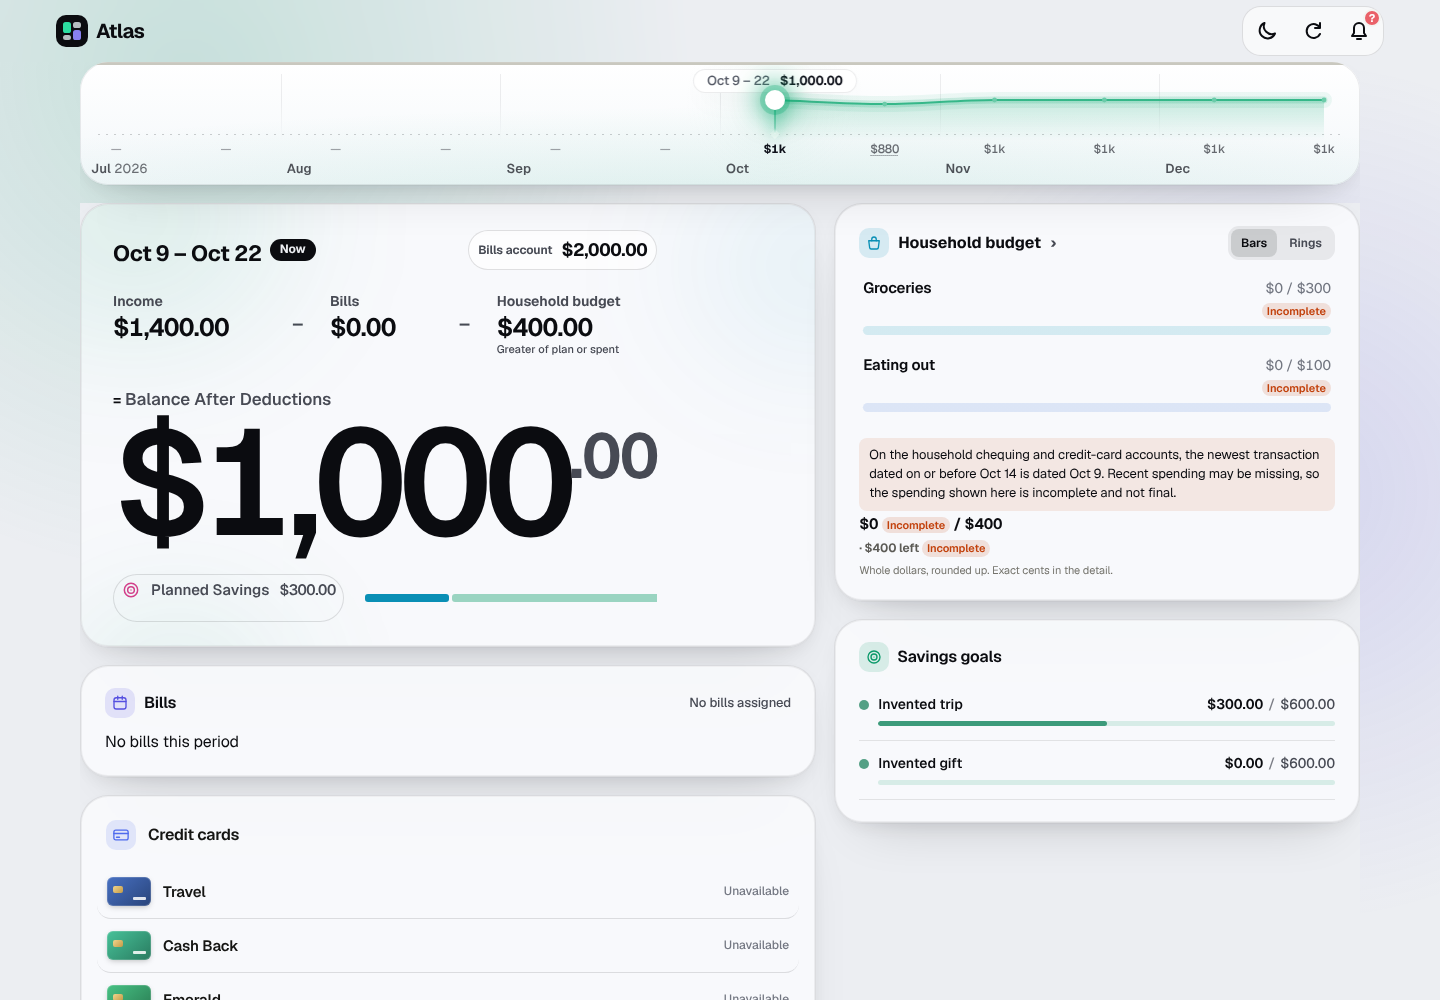
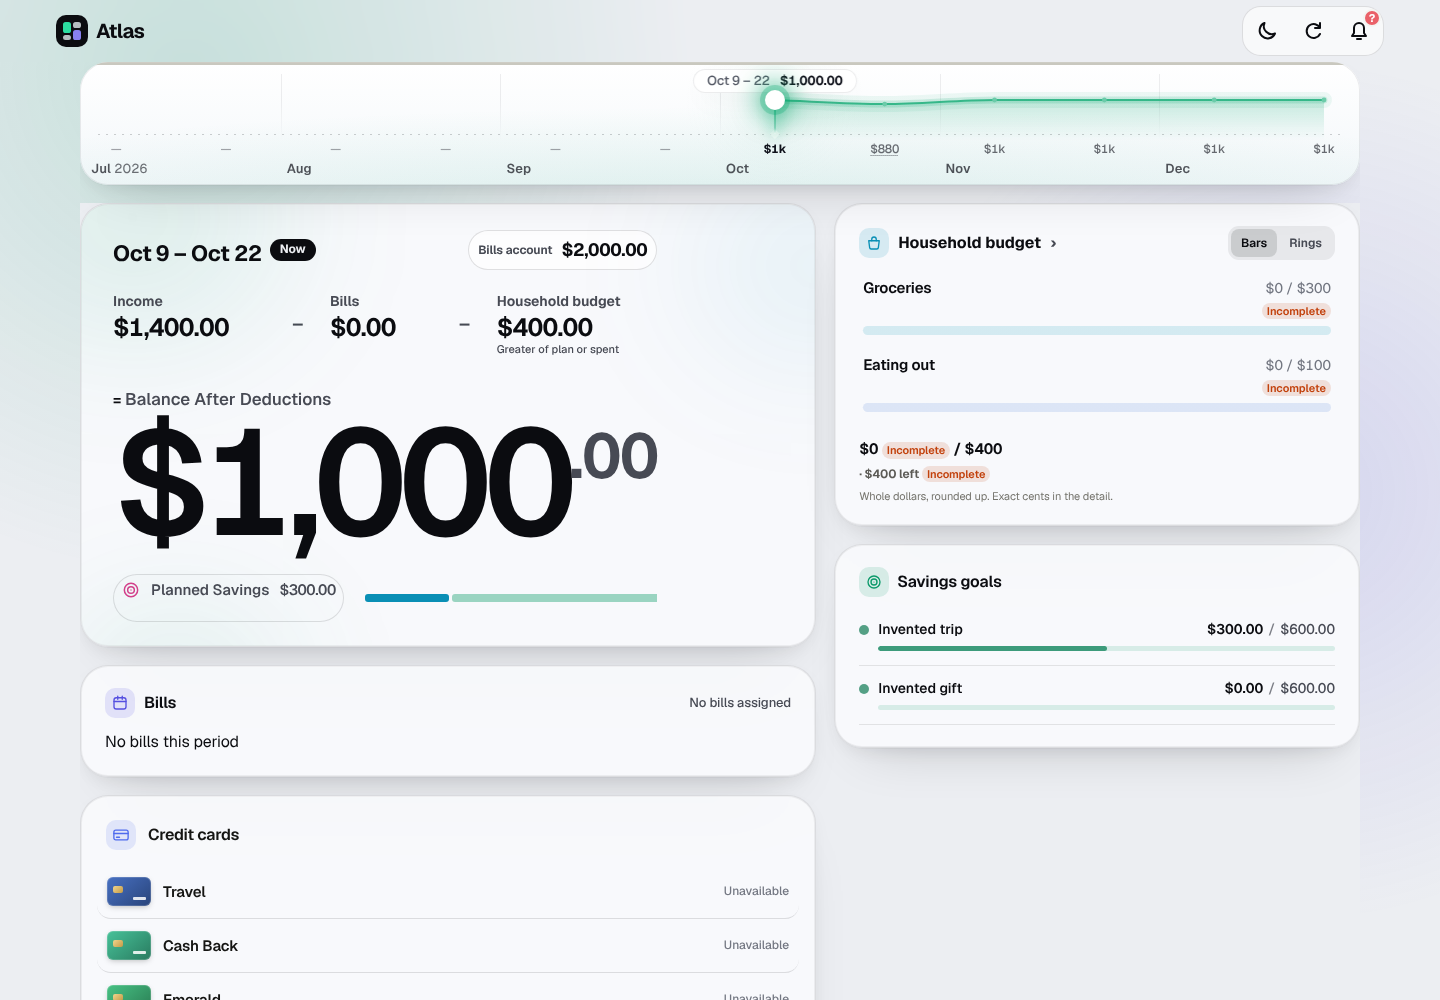
Household budget card: remove the pink stale-feed paragraph; the Incomplete chips stay
Owner decision (Dale, 2026-11-11, via the lead). The chips print wherever the
paragraph did; a test now asserts that for every stale case.

Claude-Session: https://claude.ai/code/session_01B4JZd2UMcbA8qNtEzYVTF9

Changed region(s): [[0.5938, 0.434, 0.9375, 0.775], [0.625, 0.806, 0.9062, 0.837]]

diff --git a/test/test-bank-feed-freshness.js b/test/test-bank-feed-freshness.js
@@ -62,54 +62,18 @@ test('no packet, or a packet without an observation date, makes no claim', () =>
   assert.equal(F.bankFeedFreshness({ observationAsOf: '2026-11-08' }).status, 'unknown');
 });
 
-// The page notice says only what the dates show (Atlas review 6725463013):
-// a transaction date is not an import or arrival time, and an empty window
-// is not a known arrival before it. The real renderer function is run with
-// a fixed date formatter; expected text is written by hand.
 const fs = require('node:fs');
 const path = require('node:path');
-const vm = require('node:vm');
 const planSrc = fs.readFileSync(path.join(__dirname, '..', 'public', 'plan.js'), 'utf8');
-const noticeFn = /^function budgetBankFeedNoticeHtml\([\s\S]*?\n\}$/m.exec(planSrc);
-const notice = feed => vm.runInNewContext(`${noticeFn[0]}\nbudgetBankFeedNoticeHtml(feed);`, {
-  feed, fmtDate: d => 'D<' + d + '>', budgetBrowseEscape: v => String(v).replace(/</g, '&lt;').replace(/>/g, '&gt;'),
-});
-const textOf = html => html.replace(/<[^>]+>/g, '').replace(/&lt;/g, '<').replace(/&gt;/g, '>');
 
-const TAIL = ' Recent spending may be missing, so the spending shown here is incomplete and not final.';
-const SCOPE = 'On the household chequing and credit-card accounts';
-
-test('the notice names the newest spending-account transaction date, never an arrival date', () => {
-  // A row dated 2026-11-06 may have been imported today; the notice must not say when it arrived.
-  const html = notice({ status: 'stale', asOf: '2026-11-08', newestTransactionDate: '2026-11-06', windowStart: '2026-10-25' });
-  assert.equal(textOf(html), SCOPE + ', the newest transaction dated on or before D<2026-11-08> is dated D<2026-11-06>.' + TAIL);
-  assert.match(html, /<time datetime="2026-11-06">/);
-  assert.doesNotMatch(html, /arriv|import/i);
-});
-
-test('newer savings or HELOC rows do not contradict the notice: it is scoped to what the verdict read', () => {
-  // The same packet as the savings/HELOC case above: those rows are 2026-11-08, the verdict 2026-11-03.
-  const v = F.bankFeedFreshness(packet('2026-11-08', [tx('2026-11-03', 'household-cash'),
-    tx('2026-11-08', 'household-reserve'), tx('2026-11-08', 'heloc')]));
-  const text = textOf(notice(v));
-  assert.equal(text, SCOPE + ', the newest transaction dated on or before D<2026-11-08> is dated D<2026-11-03>.' + TAIL);
-  assert.doesNotMatch(text, /newest bank transaction Atlas has|Atlas has no bank transactions/i);
-});
-
-test('an empty window states only that no spending-account transaction is dated in it', () => {
-  const html = notice({ status: 'stale', asOf: '2026-11-08', newestTransactionDate: null, windowStart: '2026-10-25' });
-  assert.equal(textOf(html), SCOPE + ', Atlas has no transactions dated from D<2026-10-25> to D<2026-11-08>.' + TAIL);
-  assert.doesNotMatch(html, /arriv|import|before/i);
-});
-
-test('no window start: no date is invented', () => {
-  const html = notice({ status: 'stale', asOf: '2026-11-08', newestTransactionDate: null, windowStart: null });
-  assert.equal(textOf(html), SCOPE + ', Atlas has no dated transactions for this period.' + TAIL);
-  assert.doesNotMatch(html, /<time|arriv/i);
-});
-
-test('a fresh or absent verdict renders no notice', () => {
-  assert.equal(notice(null), '');
+// Owner decision (Dale, 2026-11-11): the pink paragraph under the Household
+// budget card is gone. The red "Incomplete" chips are what marks the stale
+// figures (test-budget-stale-derived-marks.js proves they print in every stale
+// case), so the verdict above still drives them.
+test('the stale-feed paragraph is no longer printed, and the Incomplete chip still is', () => {
+  assert.doesNotMatch(planSrc, /budgetBankFeedNoticeHtml|data-bank-feed-stale|Recent spending may be missing/);
+  assert.match(planSrc, /function budgetSpentIncompleteHtml\(\)[\s\S]*?>Incomplete</);
+  assert.match(planSrc, /data-bank-feed="stale"/);
 });
 
 if (failures) { console.log(failures + ' failure(s)'); process.exit(1); }

diff --git a/test/browser-budget-stale-feed.js b/test/browser-budget-stale-feed.js
@@ -2,7 +2,7 @@
 // #821 (owner decision 2026-11-08): a stale bank feed must not read as zero
 // spending. Real Budget page, real renderers, invented data only.
 // Stale: the invented feed's newest spending row (2026-09-25) is nine days
-// before its observation (2026-10-04), so the page shows a dated notice and
+// before its observation (2026-10-04), so the page marks (no paragraph, since 2026-11-11) and
 // marks the current period's spent figures Incomplete, on the source rows,
 // the household total and the circles. Fresh: the same feed plus one row
 // dated on the observation day shows neither. The expected date is the
@@ -78,11 +78,7 @@ const OBSERVATION_DAY = '2026-10-04'; // fx.asOf, the invented feed's observatio
       const stalePage = await open(stale, width);
       const s = await read(stalePage);
       assert.equal(s.sectionFeed, 'stale', width + ': stale feed stamps the household section');
-      assert.ok(s.notice && s.notice.startsWith('On the household chequing and credit-card accounts, the newest transaction dated on or before Oct 4 is dated Sep 25.'), width + ': dated notice: ' + s.notice);
-      assert.doesNotMatch(s.notice, /arriv/i, width + ': a transaction date is never claimed as an arrival date');
-      assert.match(s.notice, /incomplete/i, width + ': notice says the period is incomplete');
-      assert.deepEqual(s.noticeDates, [OBSERVATION_DAY, NEWEST_STALE_ROW], width + ': notice names the observation day and the newest transaction date');
-      assert.ok(s.noticeVisible && s.noticeNearHousehold, width + ': notice is visible in the household budget card');
+      assert.equal(s.notice, null, width + ': the pink stale-feed paragraph is gone (owner decision 2026-11-11); the Incomplete chips below remain');
       assert.equal(s.rowTrust, 'incomplete', width + ': the groceries spent figure is tagged incomplete');
       assert.match(s.rowMeta, /\$110\.37\s*Incomplete/, width + ': the printed spent amount carries the mark: ' + s.rowMeta);
       assert.ok(s.ringMark, width + ': the groceries circle carries the mark');
@@ -122,7 +118,7 @@ const OBSERVATION_DAY = '2026-10-04'; // fx.asOf, the invented feed's observatio
       assert.equal(await syncPage.locator('[data-account-sync-caution]').count(), 0, width + ': sync age adds no caution');
       for (const key of ['rowStatus', 'deltaText', 'remainingText'])
         assert.equal(s[key].replace(/ Incomplete/g, ''), f[key], key + ': no figure/text change beyond mark');
-      console.log('  ok   ' + width + 'px: stale shows the dated notice and Incomplete marks; fresh shows neither');
+      console.log('  ok   ' + width + 'px: stale shows the Incomplete marks and no paragraph; fresh shows neither');
     }
     assert.deepEqual(errors, [], 'no page errors');
     assert.deepEqual(external, [], 'no external requests');

diff --git a/public/plan.js b/public/plan.js
@@ -7399,23 +7399,6 @@ function budgetSpentIncompleteHtml() {
   return '<span class="budget-spent-incomplete" data-budget-spent-incomplete>Incomplete</span>';
 }
 
-function budgetBankFeedNoticeHtml(feed) {
-  if (!feed) return '';
-  // Say only what the verdict read: transaction dates (not import history) on
-  // the household chequing and credit-card accounts, up to the observation
-  // date. Savings, HELOC, mortgage and future-dated rows are not read, so the
-  // notice makes no claim about them.
-  const tag = day => `<time datetime="${budgetBrowseEscape(day)}">${budgetBrowseEscape(fmtDate(day))}</time>`;
-  const scope = 'On the household chequing and credit-card accounts';
-  const through = feed.asOf ? ` dated on or before ${tag(feed.asOf)}` : '';
-  const lead = feed.newestTransactionDate
-    ? `${scope}, the newest transaction${through} is dated ${tag(feed.newestTransactionDate)}.`
-    : feed.windowStart && feed.asOf
-      ? `${scope}, Atlas has no transactions dated from ${tag(feed.windowStart)} to ${tag(feed.asOf)}.`
-      : `${scope}, Atlas has no dated transactions for this period.`;
-  return `<p class="budget-browse-note budget-bank-feed-stale" data-bank-feed-stale role="status">${lead} Recent spending may be missing, so the spending shown here is incomplete and not final.</p>`;
-}
-
 function budgetSpendingSectionHtml(period, ctx) {
   const rows = (period.householdBudget || []).filter(Boolean);
   const feed = budgetBankFeedState(period, ctx);
@@ -7501,7 +7484,6 @@ function budgetSpendingSectionHtml(period, ctx) {
     ${householdBudgetCycleText(period) ? `<p class="budget-browse-cycle">${budgetBrowseEscape(householdBudgetCycleText(period))}</p>` : ''}
     <div class="budget-browse-stats"><div><strong data-budget-browse-hold>${budgetProgressValueHtml(progress, 'household', { bankFeedStale: !!feed })}</strong>${budgetHouseholdDeltaHtml(progress?.delta, { bankFeedStale: !!feed })}</div>
       ${period.timelineRole === 'current' ? `<div><span>Still planned</span><strong data-budget-browse-remaining>${budgetBrowseMoney(remainingKnown ? funding.remainingHousehold : null, remainingKnown ? funding.trust : null)}${feed && remainingKnown ? ' ' + budgetSpentIncompleteHtml() : ''}</strong><small>From today</small></div>` : ''}</div>
-    ${budgetBankFeedNoticeHtml(feed)}
     ${spendingUnavailable ? `<p class="budget-browse-note blend-house-unavailable" data-budget-spending-unavailable>${budgetBrowseEscape(spendingUnavailable)}</p>` : ''}
     <div class="budget-browse-counts">${count}</div><div class="budget-category-list">${cards || '<p class="budget-browse-note">Category data unavailable.</p>'}</div>
     ${budgetSavingsPaidBrowseHtml(period)}

diff --git a/test/test-budget-stale-derived-marks.js b/test/test-budget-stale-derived-marks.js
@@ -36,6 +36,9 @@ for (const [other,expectedDelta,expectedStatus] of [[137.26,677.37,'left'],[814.
  const f=build(other), p=publish(f).payPeriodViews.find(p=>p.timelineRole==='current');
  const before=JSON.stringify({f,p}), stale=render(f,p);
  assert.equal(p.budgetProgress.household.delta.magnitude,expectedDelta,'independent: 925 - (110.37 + Other), magnitude');
+ // Owner decision 2026-11-11: no pink paragraph; wherever it used to print the chip must.
+ assert.ok(/data-bank-feed="stale"/.test(stale) && !/bank-feed-stale|Recent spending may be missing/.test(stale), 'stale feed prints no paragraph');
+ assert.ok(marked(stale), 'whenever the stale paragraph would have printed, at least one Incomplete chip prints');
  assert.ok(marked(status(stale,'other-spending')), 'stale category '+expectedStatus+' carries Incomplete');
  assert.ok(marked(delta(stale)), 'stale household delta carries Incomplete');
  assert.ok(marked(remaining(stale)), 'stale Still planned carries Incomplete');
@@ -44,13 +47,14 @@ for (const [other,expectedDelta,expectedStatus] of [[137.26,677.37,'left'],[814.
  freshOverlay.currentPeriodActuals.transactions[0].date=fx.asOf;
  const fresh=render(f,p,freshOverlay);
  assert.ok(!marked(fresh),'fresh feed has no mark');
- assert.equal(stripMarks(stale).replace(/ data-budget-spent-trust="incomplete"/g,'').replace(' data-bank-feed="stale"','').replace(/<p class="budget-browse-note budget-bank-feed-stale"[\s\S]*?<\/p>/,''),fresh,'all non-mark, non-notice markup stays byte-identical');
+ assert.equal(stripMarks(stale).replace(/ data-budget-spent-trust="incomplete"/g,'').replace(' data-bank-feed="stale"',''),fresh,'all non-mark, non-notice markup stays byte-identical');
  assert.equal(JSON.stringify({f,p}),before,'rendering cannot mutate any input, cents or trust field');
  for(const overlay of [null,{...f.data.liveOverlay,applied:false},{...f.data.liveOverlay,currentPeriodActuals:null}])
   assert.ok(!marked(render(f,p,overlay)), 'absent, unapplied or unknown feed makes no stale claim');
 }
 for(const opts of [{pendingCoverage:'unknown'},{pendingCoverage:'partial'}]) {
  const f=build(137.26,fx.asOf,opts),p=publish(f).payPeriodViews.find(p=>p.timelineRole==='current'),html=render(f,p);
+ assert.ok(!/data-bank-feed="stale"/.test(html) || marked(html) || /unavailable/i.test(html), 'a stale section prints a chip or an unavailable state, never only silence');
  assert.ok(!marked(delta(html)),'unavailable delta is not a marked money value');
  assert.ok(!marked(status(html,'other-spending')),'unavailable category remaining has no numeric marker');
  assert.match(status(html,'other-spending'),/Remaining unavailable/);
